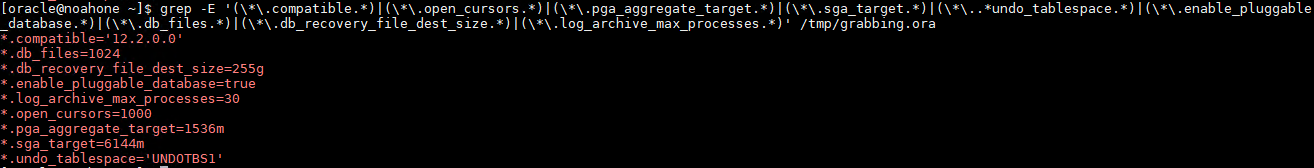
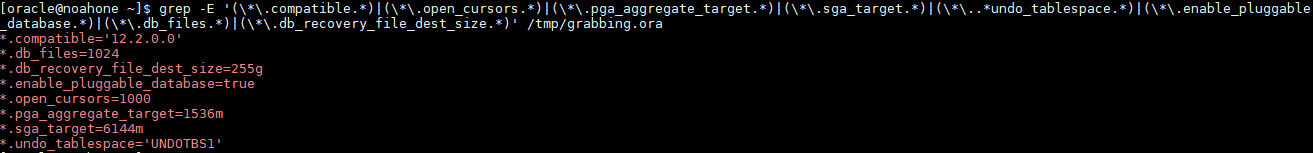
wip

Changed region(s): [[0.0, 0.0, 0.9992, 1.0]]

diff --git a/LabGuideNOAH.md b/LabGuideNOAH.md
@@ -173,21 +173,21 @@ This is going to be a big file, but grab these parameters for later -:
 ```
 *.compatible
 *.db_files
-.db_recovery_file_dest_size=255g
+*.db_recovery_file_dest_size
+*.enable_pluggable_database
 *.open_cursors
 *.pga_aggregate_target
 *.sga_target
 *.undo_tablespace (note -: you may have more than one undo, note them all)
-*.enable_pluggable_database
 ```
 
 A quick way to grab these parameters it to do this -:
 ```
-$ grep -E '(\*\.compatible.*)|(\*\.open_cursors.*)|(\*\.pga_aggregate_target.*)|(\*\.sga_target.*)|(\*\..*undo_tablespace.*)|(\*\.enable_pluggable_database.*)|(\*\.db_files.*)|(\*\.db_recovery_file_dest_size.*)|(\*\.log_archive_max_processes.*)' /tmp/grabbing.ora
+$ grep -E '(\*\.compatible.*)|(\*\.open_cursors.*)|(\*\.pga_aggregate_target.*)|(\*\.sga_target.*)|(\*\..*undo_tablespace.*)|(\*\.enable_pluggable_database.*)|(\*\.db_files.*)|(\*\.db_recovery_file_dest_size.*)' /tmp/grabbing.ora
 ```
 ![](./screenshots/NOAHscreenshots/src_grep_params.png)
 
-***NOW SAVE THESE FOR STEP Grabbing source parameters for our target (standby) pfile***
+***NOW SAVE THESE FOR STEP Creating our STANDBY pfile***
 
 [Top](#Table-of-Contents)
 <!-- SOURCE PREP SECTION END -->
@@ -243,22 +243,60 @@ $ ls -ltr *orapw*
 ```
 
 ![](./screenshots/NOAHscreenshots/trgt_orapwcpy.png)
-#### Grabbing source parameters for our target (standby) pfile
-We need to create a pfile that we can use to startup our empty target (standby) database. To do this, go to the ***TARGET (STANDBY)*** database.
+
+#### Creating an audit directory
+You need an audit directory, OCI creates one already for our database but you can create and directory and specify it in the pfile we're going to make below. Just note down the directory, in our case I'm going to use /u01/app/oracle/admin/NOAHDR_iad38f/adump. Since I already have it, I'll just show a screenshot of running ls on it.
+```
+$ mkdir -m 777 $ORACLE_BASE/admin/target_unqname/adump
+```
+![](./screenshots/NOAHscreenshots/audit_ls.png)
+
+***NOTE THE DIRECTORY DOWN YOU MADE, FOR FILLING IN THE STANDBY PFILE BELOW***
+
+#### Grabbing the DB domain
+Now, the last parameter we need to grab is the db_domain. If you're on OCI, and the two databases are in the same subnet you can just use the db_domain parameter on the source. There are a few ways to grab it regardless, so I'll show you that.
+
+**The best way is to just get the domain in the connect string and take out the DB_UNQNAME like so -:**
+```
+$ cat $ORACLE_HOME/network/admin/tnsnames.ora
+```
+Now, once you ran the cat you want to take ***THE CURRENT TARGET DATABASE ENTRY*** Look at the screenshot below for what I mean.
+![](./screenshots/NOAHscreenshots/find_db_domain_linux.png)
+
+So, our domain name is noahdbssubnet.iris.oraclevcn.com based off of this.
+
+**You can also run this Linux command**
+```
+$ hostname -A
+```
+![](./screenshots/NOAHscreenshots/linux_hostname_A.png)
+
+Same concept as above.
+
+**If on OCI, you can check on the instance details page**
+![](./screenshots/NOAHscreenshots/domain_OCI.png)
+
+***NOTE THE DOMAIN NAME, FOR FILLING IN THE STANDBY PFILE BELOW***
+
+#### Creating our STANDBY pfile
+We need to create a pfile that we can use to startup our empty target (standby) database. Make sure your are doing this on the ***TARGET (STANDBY)*** database. These are the steps -:
 ```
 $ cd $ORACLE_HOME/dbs
+$ mv init{target_sid}.ora OLD_init{target_sid}.ora
 $ vi init{target_sid}.ora
 ```
 
-Now, edit the below to fit your parameters and then paste it into the init{target_sid}.ora file, then save and exit the vi editor. ***Don't forget your parameters you grabbed above*** also, don't forget about the **apostrophes  ' '** in some of the parameters.
+Now, edit the below to fit your parameters and then paste it into the init{target_sid}.ora file, then save and exit the vi editor. ***Don't forget your parameters you grabbed above*** also, don't forget about the **apostrophes  ' '** in some of the parameters. Oracle is pretty specific with errors on trying to startup with a pfile, and it will let you know if there are missing apostrophes.
 ```
 *.audit_file_dest='/u01/app/oracle/admin/target_unqname/adump'
 *.audit_trail='db'
 *.enable_pluggable_database={grabbed from /tmp/grabbing.ora on source}
 *.compatible='{grabbed from /tmp/grabbing.ora on source}'
 #*.control_files='+DATA/target_unqname/controlfile/current.268.900456457'
+*.db_files={grabbed from /tmp/grabbing.ora on source}
 *.db_block_size=8192
 *.db_create_file_dest='+DATA'
+*.db_domain='{Grabbing the DB domain}'
 *.db_name='source_sid'
 *.db_unique_name='target_unqname'
 *.db_recovery_file_dest='+RECO'
@@ -272,8 +310,9 @@ Now, edit the below to fit your parameters and then paste it into the init{targe
 *.log_archive_dest_state_1='ENABLE'
 *.log_archive_dest_state_2='DEFER'
 *.log_archive_format='%t_%s_%r.dbf'
-*.log_archive_max_processes=30
 *.open_cursors={grabbed from /tmp/grabbing.ora on source}
+*.pga_aggregate_target={grabbed from /tmp/grabbing.ora on source}
+*.sga_target={grabbed from /tmp/grabbing.ora on source}
 *.remote_login_passwordfile='EXCLUSIVE'
 *.standby_file_management='AUTO'
 *.undo_tablespace='{grabbed from /tmp/grabbing.ora on source}'
@@ -282,6 +321,8 @@ Now, edit the below to fit your parameters and then paste it into the init{targe
 *.db_file_name_convert='+DATA/source_unqname/DATAFILE','+DATA/target_unqname/DATAFILE'
 ```
 
+Don't forget to save and exit VI (:x or :wq), and make sure there are no extra lines or missing apostrophes!
+![](./screenshots/NOAHscreenshots/trgt_initfile.png)
 
 [Top](#Table-of-Contents)
 <!-- TARGET PREP SECTION END -->
